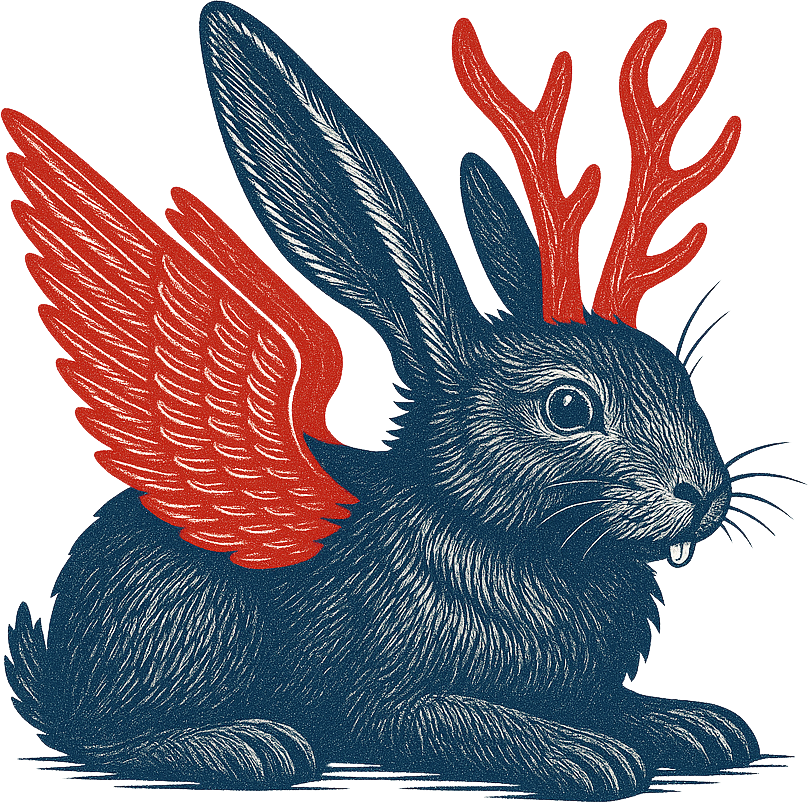
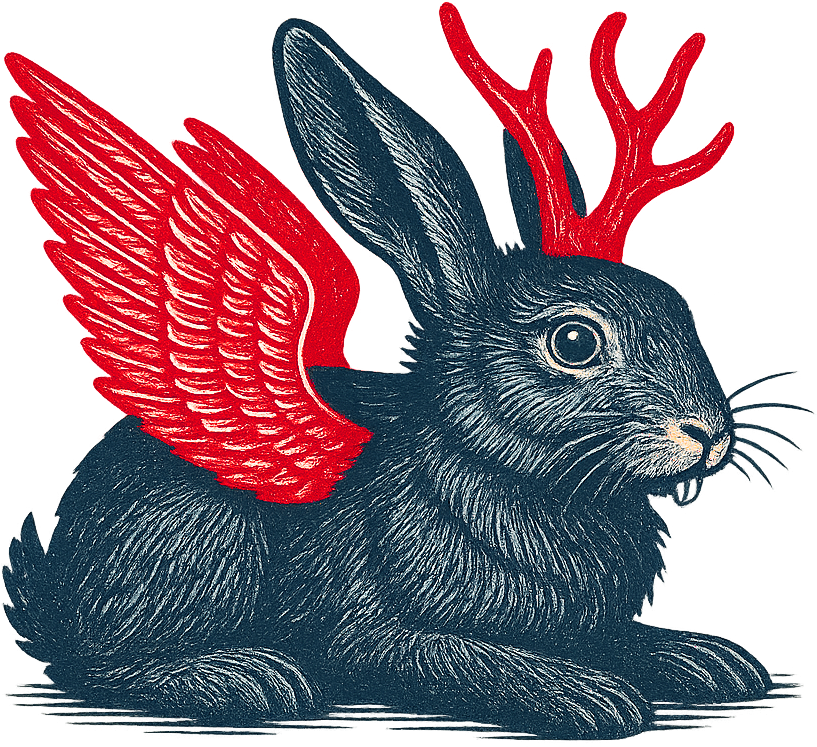
docs: update index and README
- Edited index (Landing Page) and README (targeted at developers)
- Updated Wolpi logo to latest version
- Migrate to Zensical for building the documentation
- Add a mise.toml for easy development tool setup

diff --git a/README.md b/README.md
@@ -1,44 +1,116 @@
-![](./docs/img/wolpi.png){width=50%}
+<p align="center">
+  <img src="./docs/img/wolpi.png" alt="Wolpi" width="420">
+</p>
+
 # Wolpi: A fast and extensible IIIF Image Server
 
-## Requirements
+Wolpi is a [libvips][vips]-based IIIF Image API (2.1 and 3.0) compliant image server written in
+Java. It is from the ground up designed to be easily extensible and customizable in order to fit into
+different use cases and workflows.
+
+The documentation lives at [wolpi.mdz.dev][docs]. Start there if you want to deploy Wolpi, use
+extensions, or understand how request and image processing works internally.
+
+[docs]: https://wolpi.mdz.dev
+[vips]: https://www.libvips.org/
+
+## Development Requirements
+
 - `libvips` must be available on the system
-- Java must be installed in at least version 24
+- Java must be installed in at least version 25
+- Maven must be installed for building and testing
+- `npm` is needed when developing or installing JavaScript extensions
+- GraalPy is needed when developing or installing Python extensions
+
+This repository includes configuration for [Mise](https://mise.jdx.dev) that can install the Java, Node.js and GraalPy toolchain used
+for local development:
+
+```sh
+mise install
+```
+
+You still need to install `libvips` through your operating system package manager.
 
 ## Quick Start
 
 ```sh
-$ cp -R docs/img images
-$ mvn spring-boot:run
-# In a different shell
-$ curl -v http://localhost:8080/v3/wolpi.png/info.json
+mkdir -p images
+cp docs/img/wolpi.png images/
+mvn spring-boot:run
+```
+
+In a different shell:
+
+```sh
+curl -v http://localhost:8080/v3/wolpi.png/info.json
 ```
 
 You should be able to open http://localhost:8080/v3/wolpi.png/full/max/0/default.webp in your browser.
 
+For a container-based first run, see ["Serving your first image"][first-image] in the documentation.
+
+[first-image]: ./docs/getting-started/serving-your-first-image.md
+
 ## Extensions
 
-Wolpi can be extended with custom logic written in JavaScript or Python. To learn more about how to create extensions, see the [extension documentation](./docs/extension-development.md).
+Wolpi can be extended with custom logic written in JavaScript or Python. Extensions can be used for
+authorization, resolving identifiers to image sources, augmenting `info.json`, custom image
+processing, custom output formats, logging, metrics and cache metadata.
 
-## Building the documentation
+To use existing extensions, see [Using Extensions][using-extensions]. To learn how to create your own
+extensions, see the [extension development documentation][extension-development].
 
-Use `mkdocs` with the `mkdocs-material` plugin to build or serve the documentation:
+[using-extensions]: ./docs/how-to/install-extensions.md
+[extension-development]: ./docs/extension-development.md
+
+## Developing Wolpi
+
+After installing the requirements, the main development loop is Maven-based:
+
+```sh
+# Compile and run Spotless checks
+mvn compile
+
+# Run the full test suite
+mvn test
+
+# Apply Java formatting
+mvn spotless:apply
+
+# Package the application
+mvn package
+```
+
+Wolpi reads its defaults from [`src/main/resources/application.yml`][application-yml]. During local
+development, the default image base directory is `./images` and the extension data directory is
+`./data`.
+
+Useful local endpoints:
+
+- IIIF image information: http://localhost:8080/v3/wolpi.png/info.json
+- IIIF image request: http://localhost:8080/v3/wolpi.png/full/max/0/default.webp
+- Health: http://localhost:8080/monitoring/health
+- Prometheus metrics: http://localhost:8080/monitoring/prometheus
+
+[application-yml]: ./src/main/resources/application.yml
+
+## Building the Documentation
+
+Use [Zensical][zensical] to build or serve the documentation. It can read the existing
+`mkdocs.yml`, so we keep that file for now:
 
 ```bash
 # install uv if you don't have it already
 # curl -LsSf https://astral.sh/uv/install.sh | sh
 
-# serve the docs at localhost:8000/wolpi
-uv run --with mkdocs-material mkdocs serve
+# serve the docs locally
+uv run --with zensical zensical serve
 
-# build the docs into the `site` directory
-uv run --with mkdocs-material mkdocs build
+# build the docs into the `public` directory
+uv run --with zensical zensical build --clean
 ```
 
-## Troubleshooting
+The documentation entry point is [`docs/index.md`](./docs/index.md), and the navigation is configured
+in [`mkdocs.yml`](./mkdocs.yml).
 
-- **Application fails to start due to missing vips shared library:** The `vips-ffm` bindings are pretty picky
-  in terms of how they locate the shared library. If your shared library name is not ending on `.so`, it won't
-  be found. You can either create a symlink to e.g. `/lib/x86_64-linux-gnu/libvips.so`, or you can invoke
-  Wolpi with `-Dvipfsffm.libpath.vips.override=/lib/x86_64-linux-gnu/libvips.so.42`. You can find out where
-  your vips library is located by invoking `ldd $(which vips) |grep libvips`.
+[zensical]: https://zensical.org/docs/

diff --git a/docs/index.md b/docs/index.md
@@ -1,40 +1,64 @@
-![wolpi](./img/wolpi_notext.png){ width=200, align=left }
+<p align="center">
+  <img src="./img/wolpi.png" alt="Wolpi" width="420">
+</p>
 
 # Wolpi: An Extensible IIIF Image Server
-Wolpi is a [libvips][vips]-based IIIF Image API (2.1 and 3.0) compliant image server written in Java.
-It  is from the ground up designed to be easily extensible and customizable in order to fit into
+
+Wolpi is a [libvips][vips]-based IIIF Image API (2.1 and 3.0) compliant image server.
+It is from the ground up designed to be easily extensible and customizable in order to fit into
 different use cases and workflows.
+
+Use it to serve images through standard IIIF URLs, with enough configuration and extension hooks to
+adapt it to local storage, metadata systems, authorization, custom image processing and operational
+monitoring.
 
 [vips]: https://www.libvips.org/
 
+## Quickstart
+
+To get your feet wet with Wolpi, we recommend you start with our tutorials:
+
+- [Serve your first image](./getting-started/serving-your-first-image.md).
+- Use an extension to [resolve images regular expressions](./getting-started/using-an-extension-pattern-resolver.md).
+- Deploy Wolpi on a server, via [Docker/Podman](./how-to/deploy-using-docker-podman.md),
+  bare-metal using [the published JAR](./how-to/deploy-using-the-jar.md), or in your
+  [Kubernetes cluster](./how-to/deploy-on-kubernetes.md).
+- Configuring Wolpi: use the [configuration reference](./reference/configuration.md).
+- Writing extensions: read [Developing Extensions](./extension-development.md).
+
 ## Configuration
-Through the YAML-based configuration, you can customize various aspects of Wolpi's behavior, such as:
 
-- vips image encoding options (e.g. JPEG quality, WebP presets, etc.)
-- enable/disable optional IIIF Image API features and limits, to tailor Wolpi to your use cases, the
-  IIIF  Image API compliance level and `info.json` will be automatically adjusted accordingly
+The YAML-based configuration allows you to customize various aspects of Wolpi's behavior, such as:
 
-Refer to the [configuration documentation][config-doc] to learn more about the available configuration
-options.
+- [vips image encoding options], e.g. JPEG quality, WebP presets, etc.
+- [optional IIIF Image API features and limits], the IIIF Image API compliance level and `info.json`
+  response are adjusted accordingly.
+- Operational options like [HTTP settings] and [logging behavior]
+- Extensions and their runtime options
+
+Refer to the [configuration documentation][config-doc] to learn more about the available
+configuration options.
 
 [config-doc]: ./reference/configuration.md
+[vips image encoding options]: ./reference/configuration.md#image-encoding-options
+[optional IIIF Image API features and limits]: ./reference/configuration.md#iiif-configuration
+[HTTP settings]: ./reference/configuration.md#http-configuration
+[logging behavior]: ./reference/configuration.md#logging-configuration
 
 ## Extending Wolpi
-Wolpi can be extended using custom extensions written in JavaScript or Python. These extensions can
-be used to customize various aspects of Wolpi's behavior (in ways that do not violate the IIIF
-Image API specification):
 
-- Authorization (e.g. to integrate with your organization's [IIIF Authorization Flow API][auth]
-  implementation)
-- Resolving, with the option to include image metadata from an external source to avoid hitting
-  the filesystem for `info.json` requests
-- Augment the `info.json` response, e.g. to include reference to [additional IIIF services][extra-services]
-- Image operations, to implement custom image transformations or filters that go beyond the IIIF
-  Image API specification:
-    * Preprocess images (e.g. for watermarking)
-    * Override/extend cropping, scaling, rotation and quality transformations (e.g. to implement
-      custom smart cropping algorithms or image filters)
-    * Implement custom output formats or customize the encoding of existing formats
+Wolpi can be extended using custom extensions written in JavaScript or Python. These extensions can
+be used to customize various aspects of Wolpi's behavior in ways that do not violate the IIIF Image
+API specification:
+
+- Authorization, e.g. to integrate with your organization's [IIIF Authorization Flow API][auth]
+  implementation.
+- Resolving identifiers to image sources, with the option to include image metadata from an external
+  source to avoid hitting the filesystem for `info.json` requests.
+- Augmenting the `info.json` response, e.g. to include references to
+  [additional IIIF services][extra-services].
+- Image operations that go beyond the IIIF Image API specification, such as watermarking, smart
+  cropping, custom filters, custom output formats or custom encoding for existing formats.
 
 Refer to the [extension usage documentation][exts-usage-doc] to learn how to install and configure
 existing Wolpi extensions. To learn how to write your own extensions, refer to the
@@ -49,11 +73,12 @@ existing Wolpi extensions. To learn how to write your own extensions, refer to t
 
 Wolpi provides everything required to run it both on traditional servers and in cloud environments:
 
-- Runnable as a [standalone JAR][ops-jar] or [OCI container][ops-container]
+- Runnable as a [standalone JAR][ops-jar], [OCI container][ops-container], or
+  [Kubernetes deployment][ops-k8s].
 - Full support for [HTTP caching semantics][ops-caching] (ETags, Last-Modified, Cache-Control, etc.)
-  to easily  integrate with CDNs and proxy caches
-- [Health checks][ops-health] and [metrics endpoint for monitoring][ops-metrics]
-- [Structured logging][ops-logging] to the standard output (to be picked up by e.g. journald or k8s)
+  to easily integrate with CDNs and proxy caches.
+- [Health checks][ops-health], [Prometheus metrics][ops-metrics] and
+  [structured logging][ops-logging].
 
 Most of the above features are integrated into the extension API, so custom extensions can
 [log][ops-extdev-log], [export metrics][ops-extdev-metrics], and provide cache metadata for
@@ -61,6 +86,7 @@ resolved images as well.
 
 [ops-jar]: ./how-to/deploy-using-the-jar.md
 [ops-container]: ./how-to/deploy-using-docker-podman.md
+[ops-k8s]: ./how-to/deploy-on-kubernetes.md
 [ops-caching]: ./reference/http.md#caching-and-conditional-requests
 [ops-health]: ./reference/observability.md#health-endpoints
 [ops-metrics]: ./reference/observability.md#built-in-wolpi-metrics

diff --git a/docs/concepts/extension-execution-model.md b/docs/concepts/extension-execution-model.md
@@ -7,6 +7,7 @@ the [IIIF Image API Validation test suite][iiif-validation].
 
 [info-hook]: ../extension-development.md#info-hook
 [iiif-validation]: https://github.com/dbmdz/image-validator-ng
+[cleanup-hook]: ../extension-development.md#cleanup-hook
 
 ## Extension Pooling and Lifecycle
 
@@ -41,9 +42,9 @@ stateDiagram-v2
     Pooled --> destroyHook: Evicted/Shutdown
     destroyHook --> [*]
 
-    click setupHook href "../extension-development.md#setup-and-destroy-hooks"
-    click cleanupHook href "../extension-development.md#cleanup-hook"
-    click destroyHook href "../extension-development.md#setup-and-destroy-hooks"
+    click setupHook href "../../../extension-development/#setup-and-destroy-hooks"
+    click cleanupHook href "../../../extension-development/#cleanup-hook"
+    click destroyHook href "../../../extension-development/#setup-and-destroy-hooks"
 ```
 
 ## Extension Request Processing
@@ -80,16 +81,16 @@ graph TB
   C --> SA;
   C --> SB;
 
-  click A href "../extension-development.md#authorize-hook"
-  click B href "../extension-development.md#resolve-hook"
-  click D href "../extension-development.md#preprocessimage-hook"
-  click E href "../extension-development.md#image-processing-hooks"
-  click F href "../extension-development.md#image-processing-hooks"
-  click G href "../extension-development.md#image-processing-hooks"
-  click H href "../extension-development.md#image-processing-hooks"
-  click I href "../extension-development.md#preformat-hook"
-  click J href "../extension-development.md#cleanup-hook"
-  click K href "../extension-development.md#augmentinfojson-hook"
+  click A href "../../extension-development/#authorize-hook"
+  click B href "../../extension-development/#resolve-hook"
+  click D href "../../extension-development/#preprocessimage-hook"
+  click E href "../../extension-development/#image-processing-hooks"
+  click F href "../../extension-development/#image-processing-hooks"
+  click G href "../../extension-development/#image-processing-hooks"
+  click H href "../../extension-development/#image-processing-hooks"
+  click I href "../../extension-development/#preformat-hook"
+  click J href "../../extension-development/#cleanup-hook"
+  click K href "../../extension-development/#augmentinfojson-hook"
 ```
 
 An extension can read state set from an earlier hook, since all hooks on a request are executed on

diff --git a/docs/extension-development.md b/docs/extension-development.md
@@ -520,11 +520,10 @@ more about the available APIs for image processing. Some of the methods on the `
     ```
 
     1.  Here we create a new `VImage` object with some text to use as a watermark.
-        We need to pass the `wolpi.vipsArena` memory arena to the [`VImage.text`][text]
+        We need to pass the `wolpi.vipsArena` memory arena to the
+        [`VImage.text`](https://vipsffm.photofox.app/app.photofox.vipsffm/app/photofox/vipsffm/VImage.html#text%28java.lang.foreign.Arena,java.lang.String,app.photofox.vipsffm.VipsOption...%29)
         method to create the image, since the vips bindings we use need to do an allocation
         for that.
-
-    [text]: https://vipsffm.photofox.app/app.photofox.vipsffm/app/photofox/vipsffm/VImage.html#text(java.lang.foreign.Arena,java.lang.String,app.photofox.vipsffm.VipsOption...)
 
 === "Python"
 
@@ -553,7 +552,8 @@ more about the available APIs for image processing. Some of the methods on the `
     ```
 
     1.  Here we create a new `VImage` object with some text to use as a watermark.
-        We need to pass the `wolpi.vipsArena` memory arena to the [`VImage.text`][text]
+        We need to pass the `wolpi.vipsArena` memory arena to the
+        [`VImage.text`](https://vipsffm.photofox.app/app.photofox.vipsffm/app/photofox/vipsffm/VImage.html#text%28java.lang.foreign.Arena,java.lang.String,app.photofox.vipsffm.VipsOption...%29)
         method to create the image, since the vips bindings we use need to do an allocation
         for that.
 
@@ -654,9 +654,9 @@ Wolpi extensions can be kept as single files, as shown in the [Quickstart](#quic
     package registry (defaults to PyPI, but custom indices can be configured). The package must define
     a `wolpi` entry point in its `pyproject.toml`. This entry point must point to a callable that
     returns a dictionary of hooks, or an object that has the hooks as methods. The directory layout
-    of the package can either be ["src"-style or "flat"][dir-layout] (i.e. `src/<pkg>` or just `<pkg>`).
-
-    [dir-layout]: https://packaging.python.org/en/latest/discussions/src-layout-vs-flat-layout/
+    of the package can either be
+    ["src"-style or "flat"](https://packaging.python.org/en/latest/discussions/src-layout-vs-flat-layout/)
+    (i.e. `src/<pkg>` or just `<pkg>`).
 
     ```toml linenums="1" title="./pyproject.toml"
     [project]
@@ -1405,8 +1405,6 @@ the image and the Image API request. It must return a new `VImage` object that r
 or a `null`/`None` value to indicate that no processing was done (see [below][java-api]) for details on how
 to interact with `VImage`). The returned image must have the same dimensions as the input image;
 if it does not, Wolpi logs a warning and ignores the result.
-
-[java-api]: #working-with-java-classes-from-extensions
 
 === "JavaScript"
 

diff --git a/docs/how-to/deploy-using-docker-podman.md b/docs/how-to/deploy-using-docker-podman.md
@@ -95,12 +95,7 @@ custom image with pre-installed extensions as described in
 
 The Wolpi container image uses Oracle GraalVM for performance reasons. While the
 application code is MIT licensed, the container image itself is subject to the
-[GraalVM Free Terms and Conditions][gftc-license], which permits use (including
-for commercial purposes) and free redistribution but restricts selling the JDK
-distribution. You're fine using the container in production (including
-commercial SaaS use), but **if you want to sell the container image itself, you
-need to get a commercial GraalVM license from Oracle.**
-
-**tl;dr for 99.99% of all users**: You're fine.
+[GraalVM Free Terms and Conditions][gftc-license], which puts certain limits on
+(commercial) redistribution.
 
 [gftc-license]: https://www.oracle.com/downloads/licenses/graal-free-license.html

diff --git a/docs/how-to/build-containers-with-pre-installed-extensions.md b/docs/how-to/build-containers-with-pre-installed-extensions.md
@@ -27,6 +27,9 @@ For the exact behavior of `install-extensions` and the related CLI commands, see
 Here is an example that builds an image with the [Pattern Resolver extension][pattern-resolver]
 that is being installed remotely from [npmjs.com][npmjs]:
 
+[pattern-resolver]: https://github.com/dbmdz/wolpi-pattern-resolver
+[npmjs]: https://www.npmjs.com/
+
 ```yaml title="build-config.yml"
 extensions:
   - npm: